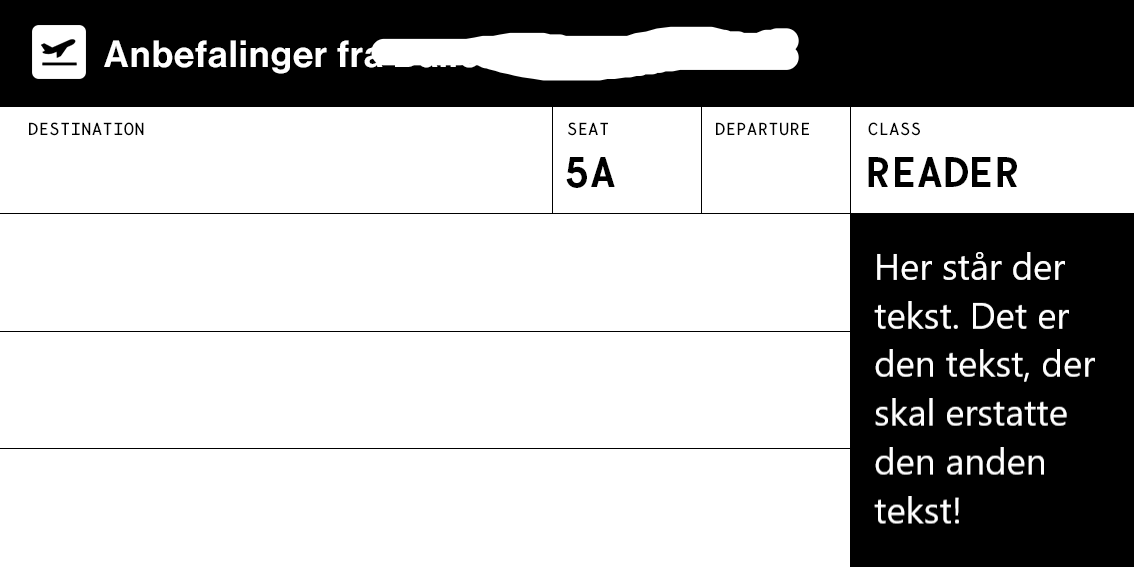
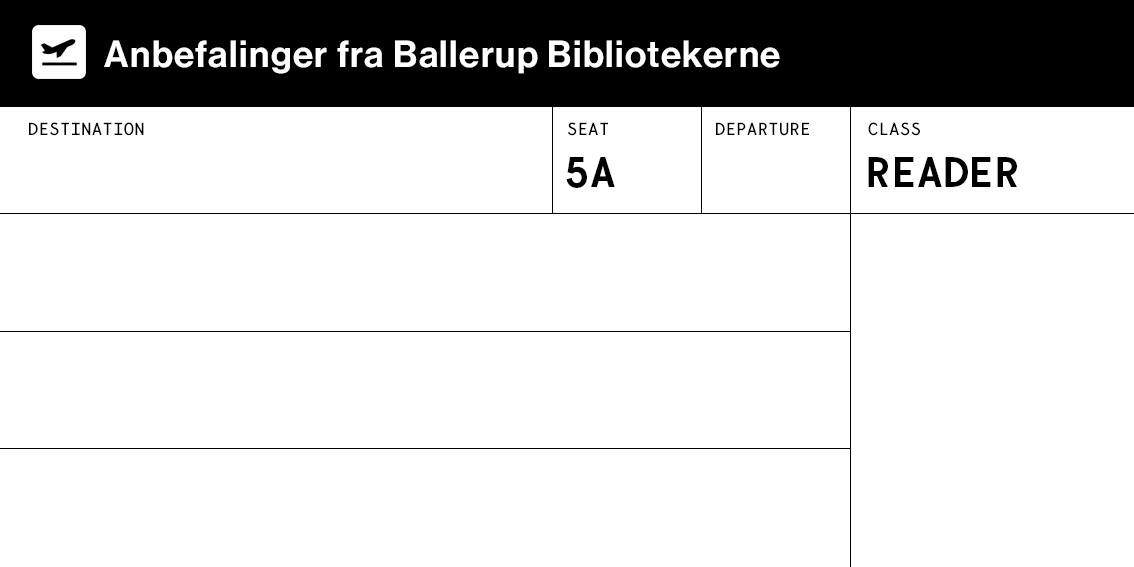
Restored

Changed region(s): [[0.7407, 0.3598, 1.0, 1.0], [0.3086, 0.03, 0.7099, 0.1499]]

diff --git a/src/boadingPassGenerator.h b/src/boadingPassGenerator.h
@@ -122,9 +122,9 @@ public:
         }
         
         ofRectangle g = layout["general"];
-        vector<string> general = transformToCollumn("TESTTESTTEST TESTTESTTEST TESTTESTTEST", g.width*scale, matb_f);
+        vector<string> general = transformToCollumn("Med biblioteket har du online adgang til en verden af bøger, film, musik, blade og aviser, som er lette at tage med på rejsen.", g.width*scale, matb_f);
         general.push_back("");
-        vector<string>concat =transformToCollumn("Find dem på www.bib.ballerup.dk/TESTTESTTEST", g.width*scale, matb_f);
+        vector<string>concat =transformToCollumn("Find dem på www.bib.ballerup.dk/afgangstavlen", g.width*scale, matb_f);
         general.insert( general.end(), concat.begin(), concat.end() );
         
         
@@ -164,7 +164,7 @@ public:
         ofSaveImage(pix, "latest.png", OF_IMAGE_QUALITY_BEST);
         
         
-        }//JEG HAR RETTET HER?
+        //}
         // }
         string boardingPass = "latest.png";
         string cwd = ofFilePath::getCurrentWorkingDirectory();
